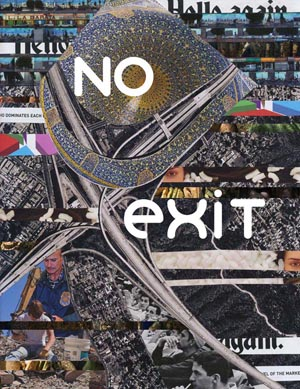
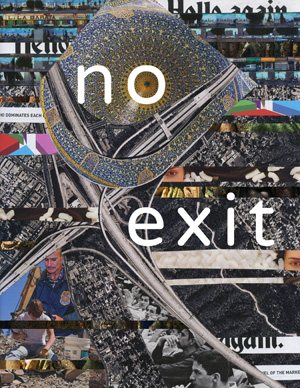
uploaded new images with font changes to artdesign page

diff --git a/artdesign.html b/artdesign.html
@@ -30,6 +30,25 @@
     </div>
 
     <div id="content" class="row col-lg-offset-3 col-md-offset-3 col-lg-9 col-md-9 col-sm-12 col-xs-12">
+      <div class="col-lg-3">
+        <a href="/images/artdesign_fullsize/noexitcover2.jpg">
+          <img src="/images/noexitcover2_min.jpg" style="">
+        </a>
+      </div>
+
+      <div class="col-lg-3">
+        <a href="/images/artdesign_fullsize/oncuecover2.jpg">
+          <img src="/images/oncuecover2_min.jpg" style="">
+        </a>
+      </div>
+
+      <div class="col-lg-6">
+        <p class="annotation"><a href=""></a></p>
+        <p class=""><a href=""></a></p>
+      </div>
+    </div>
+
+    <div id="content" class="row col-lg-offset-3 col-md-offset-3 col-lg-9 col-md-9 col-sm-12 col-xs-12">
       <div class="col-lg-6">
         <a href="/images/artdesign_fullsize/wccccatering.png">
           <img src="/images/wccccatering_min.png" style="">
